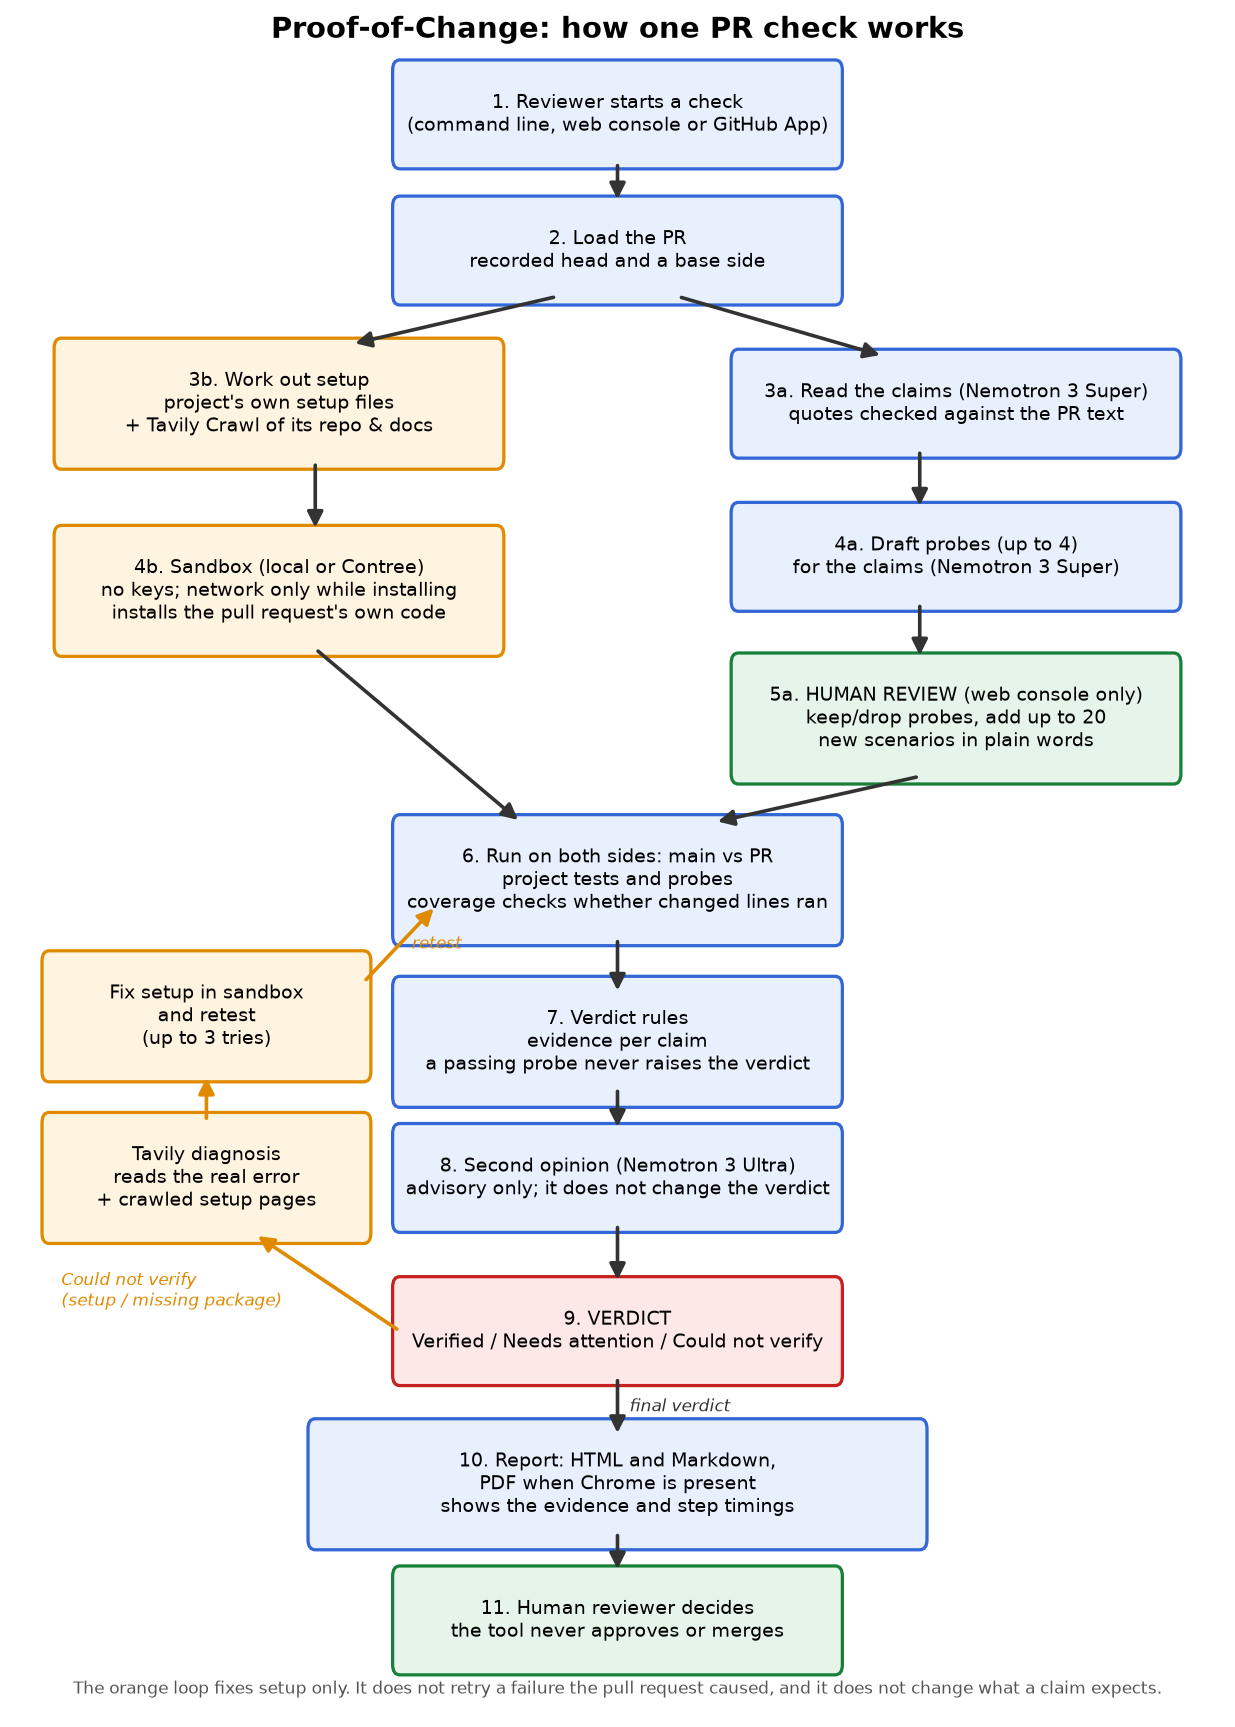
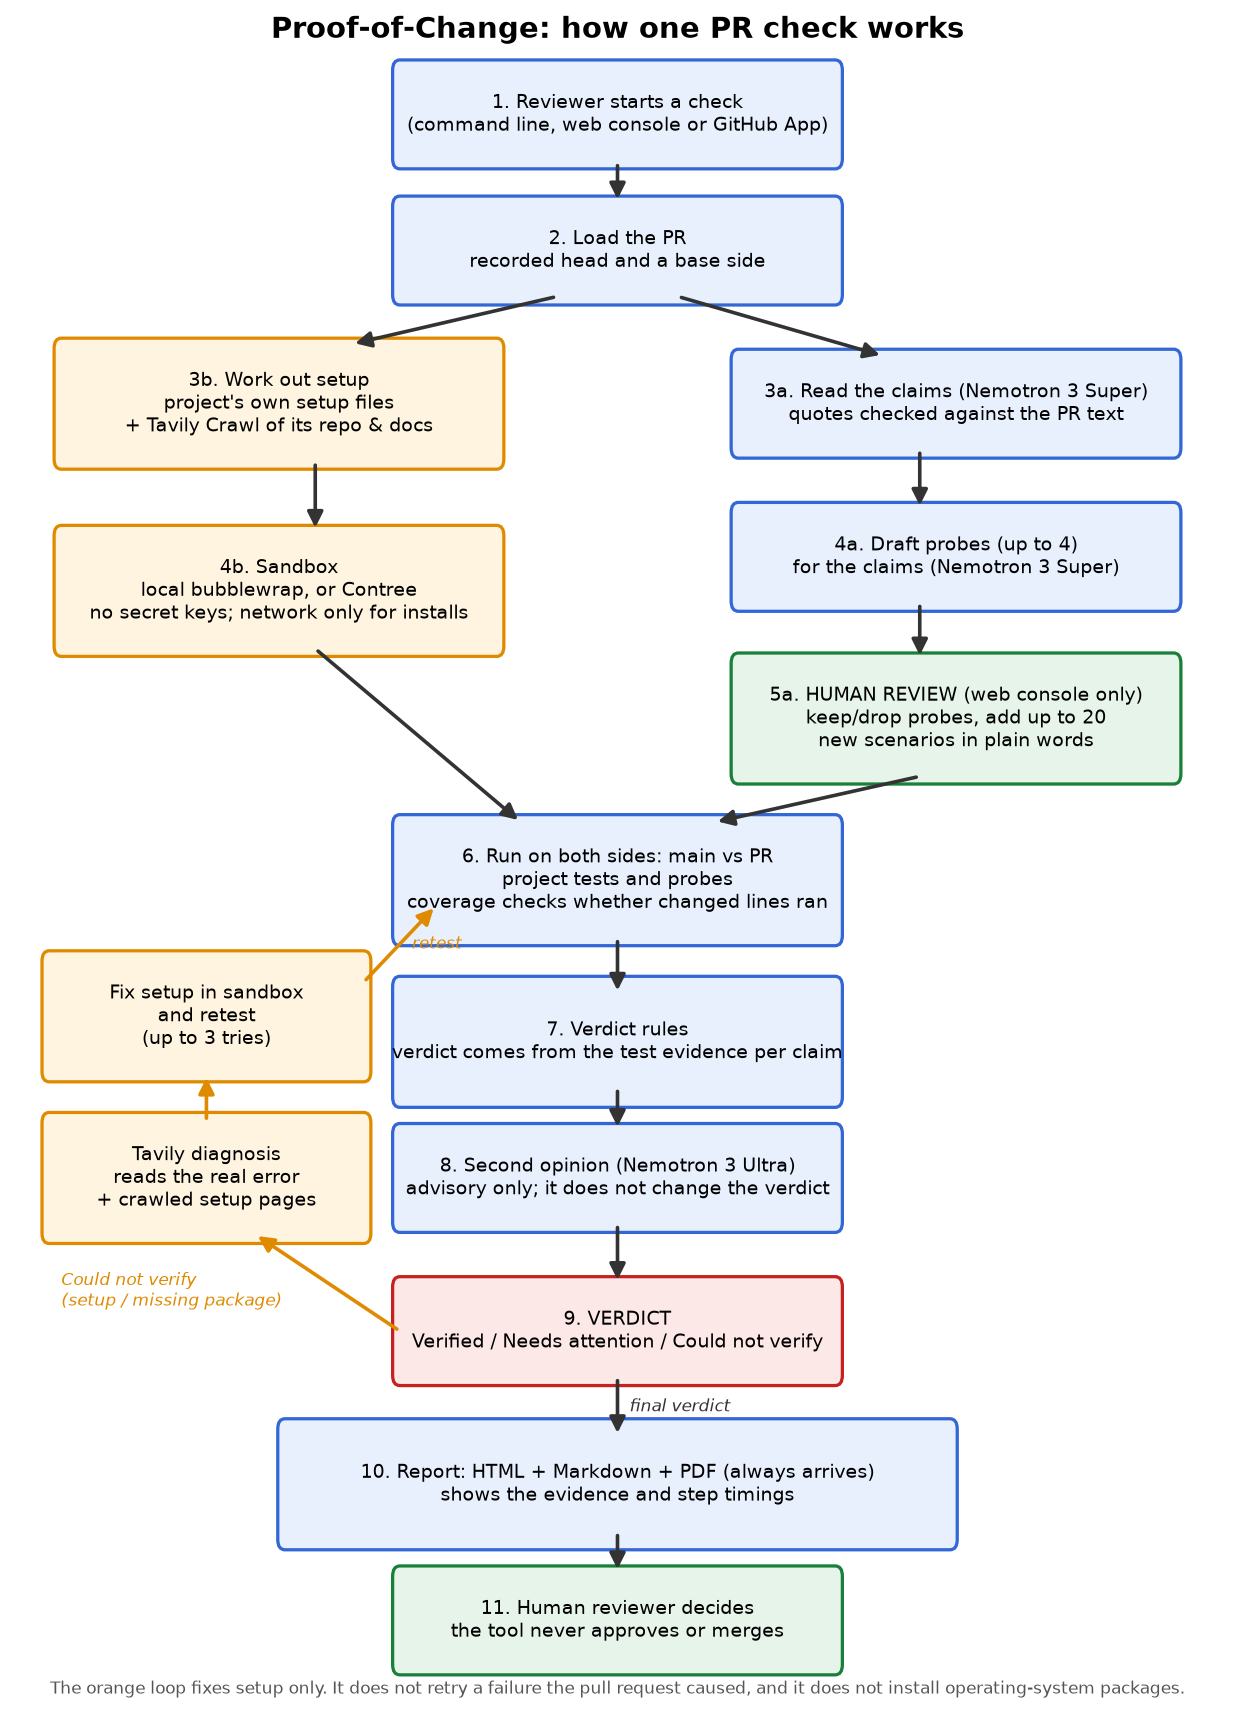
docs: match the check diagram to the sandbox, PDF, and repair rules
A setup repair is described as a rerun under the usual verdict rules. The diagram no longer says the GitHub App runs only in Contree, and the report note says the PDF is written by Chrome or the built-in maker.

diff --git a/poc/demo_helper.py b/poc/demo_helper.py
@@ -31,7 +31,7 @@ TAVILY_TIMEOUT = 8
 PYPI_TIMEOUT = 8
 MAX_SUGGESTIONS = 8
 # Probe line coverage is measured again after a setup rerun only when the change is this small.
-# A larger change skips that measurement, and the rerun cannot raise could_not_verify to verified.
+# A larger change skips that measurement, and the verdict stays could_not_verify.
 SMALL_CHANGED_LINES = 200
 SIDES = ("main", "pr")
 TEST_EXTRAS = ("test", "tests", "testing")
@@ -2850,10 +2850,9 @@ def retry_unverified_study(rec: dict, rerun, install_one, declared, tavily_text:
     """Study and daily-study path, unchanged from before the product check flow.
 
     One rerun when a could-not-verify result is a setup gap. Tavily text alone never changes the verdict.
-
-    This is the only step that can raise could_not_verify to verified. When the record has probes, that raise
-    waits for a fresh probe line-coverage measurement. The measurement runs only when the change is small.
-    A larger change skips it, and the verdict stays could_not_verify.
+    A repair only lets the check run; the verdict comes from the same rules as any other run.
+    When the record has probes, a fresh probe line-coverage measurement runs only when the change is small.
+    A larger change skips that measurement, and the verdict stays could_not_verify.
 
     ``allow_system`` and ``install_system`` are unused. They stay so older callers still pass, and this step
     does not install an OS package.
@@ -2961,10 +2960,12 @@ def retry_unverified(rec: dict, rerun, install_one, declared, tavily_text: str, 
                      product_repair: bool = False) -> dict:
     """Up to ``max_tries`` reruns when a could-not-verify result is a setup or import gap.
 
-    Each try: look the error up (Tavily, when a lookup is given), install the fix on main and pr, rerun the step.
-    Every try is logged in ``gap_retry.tries``. A needs-attention result (a PR-caused test failure) is never retried.
-    Tavily text alone never changes the verdict. This is the only step that can raise could_not_verify to
-    verified, and that raise still waits for a fresh probe line-coverage measurement when the record has probes.
+    Each try looks up the real error (Tavily, when a lookup is given), installs the same fix on main and pr,
+    and runs the check again. Every try is logged in ``gap_retry.tries``. A repair only lets the check run;
+    the verdict comes from the same rules as any other run. A needs-attention result (a failure the pull
+    request caused) is never retried. Tavily text alone never changes the verdict. When the record has probes,
+    a fresh probe line-coverage measurement runs only when the change is small. A larger change skips that
+    measurement, and the verdict stays could_not_verify.
 
     ``allow_system`` and ``install_system`` are unused. A missing system library, header or build tool is a
     could-not-verify limitation. This step does not install an OS package on any sandbox.

diff --git a/docs/architecture.py b/docs/architecture.py
@@ -47,7 +47,7 @@ panel(
 )
 panel(
     0.22, 0.66,
-    "4b. Sandbox (local or Contree)\nno keys; network only while installing\ninstalls the pull request's own code",
+    "4b. Sandbox\nlocal bubblewrap, or Contree\nno secret keys; network only for installs",
     c=NEW, e=NE, h=0.065,
 )
 panel(
@@ -57,7 +57,7 @@ panel(
 )
 panel(
     0.5, 0.395,
-    "7. Verdict rules\nevidence per claim\na passing probe never raises the verdict",
+    "7. Verdict rules\nverdict comes from the test evidence per claim",
     h=0.065,
 )
 panel(0.5, 0.315, "8. Second opinion (Nemotron 3 Ultra)\nadvisory only; it does not change the verdict")
@@ -66,8 +66,8 @@ panel(0.16, 0.315, "Tavily diagnosis\nreads the real error\n+ crawled setup page
 panel(0.16, 0.41, "Fix setup in sandbox\nand retest\n(up to 3 tries)", c=NEW, e=NE, w=0.26, h=0.065)
 panel(
     0.5, 0.135,
-    "10. Report: HTML and Markdown,\nPDF when Chrome is present\nshows the evidence and step timings",
-    w=0.5, h=0.065,
+    "10. Report: HTML + Markdown + PDF (always arrives)\nshows the evidence and step timings",
+    w=0.55, h=0.065,
 )
 panel(0.5, 0.055, "11. Human reviewer decides\nthe tool never approves or merges", c=HUM, e=HE)
 arr(0.5, 0.912, 0.5, 0.888)
@@ -90,7 +90,7 @@ arr(0.5, 0.107, 0.5, 0.083)
 ax.text(
     0.5, 0.012,
     "The orange loop fixes setup only. It does not retry a failure the pull request caused, "
-    "and it does not change what a claim expects.",
+    "and it does not install operating-system packages.",
     ha="center", fontsize=9.5, color="#555",
 )
 plt.savefig("docs/architecture.png", dpi=130, bbox_inches="tight")

diff --git a/docs/decisions/2026-10-21-pr-only-flaky-not-verified.md b/docs/decisions/2026-10-21-pr-only-flaky-not-verified.md
@@ -6,7 +6,7 @@ A test that passes on every run of the current code, and passes on some runs of 
 
 A test that is flaky on both sides is still only listed. It does not decide the verdict. The same split applies to a probe observation.
 
-The setup rerun is the only step that can raise could not verify to verified. Before it does, probe line coverage is measured again, but only when the change is small (200 changed lines or fewer). A larger change skips that measurement, and the rerun then cannot raise the verdict to verified.
+A setup repair only lets the check run again. The verdict comes from the same rules as any other run. Probe line coverage is measured again only when the change is small (200 changed lines or fewer). A larger change skips that measurement, and the verdict stays could not verify.
 
 A web search can suggest package names. Those names are installed only when the package's page on the Python package index links back to the same repository. The package author writes that link. It stops an accident. It does not stop someone who is trying to get a bad package installed.
 
@@ -22,7 +22,7 @@ Ignoring a failure that shows up only on the pull request treats a possible brea
 
 - Count a result that is stable on the base and unstable only on the pull request as a possible regression. Needs attention when it can be called. Could not verify when it is too mixed to call. Never verified.
 - Keep today's handling when a result is flaky on both sides.
-- Recompute probe line coverage after a setup rerun, and only then allow could not verify to become verified. Skip that measurement when the change is larger than 200 lines, and do not raise the verdict in that case.
+- Recompute probe line coverage after a setup rerun, and only for a change of 200 lines or fewer. Skip that measurement when the change is larger, and leave the verdict could not verify in that case.
 - Say plainly that a suggested package is installed only when its package-index page links back to the same repository, and that this stops accidents, not a determined attacker.
 - Label a probe result that is stable on the base and too mixed to call on the pull request as unstable on the pull request, not as flaky.
 - Treat a measurement with no changed lines as not adequate, so a setup rerun cannot become verified from it.

diff --git a/README.md b/README.md
@@ -21,13 +21,21 @@ A person starts a check from the command line, the web console, or the GitHub Ap
 writes its own PR comment and check result. The check loads the recorded head commit and a base side, reads claims
 that must quote the pull request text, and drafts probes; on the web console a person can keep or drop those probes
 and add up to 20 test ideas in plain words. It reads the project's own setup files and a crawl of the repository and
-its docs, then installs the code in a sandbox that gets no secret keys and has a network only while packages are
-installed. Tests and probes run on main and on the pull request, coverage checks whether the changed lines ran, and
-plain rules set one of three verdicts; a passing probe never raises the verdict, and the second opinion does not
-change it. A setup failure can be diagnosed from the real error and the crawled pages, then fixed and run again, up
-to 3 times, without retrying a failure the pull request caused or changing what a claim expects. The report is HTML
-and Markdown, plus a PDF when Chrome is present, and it shows the evidence and how long each step took; a person
-decides, and the tool never approves or merges.
+its docs, then runs the code in a sandbox: local bubblewrap, or Contree. The sandbox gets no secret keys, and the
+network is on only for installs. Tests and probes run on main and on the pull request, and coverage checks whether
+the changed lines ran. The verdict comes from the test evidence for each claim, and the second opinion does not
+change it.
+
+When setup or an import fails, the checker can look up the real error, install the same fix on both sides and run
+the check again, up to 3 logged tries. A repair only lets the check run; the verdict comes from the same rules as
+any other run. It never retries a failure the PR caused and never installs OS packages.
+
+The report is HTML and Markdown, and it shows the evidence and how long each step took. The PDF always arrives:
+Chrome makes it when it works, and otherwise the built-in reportlab maker does. A person decides, and the tool
+never approves or merges.
+
+Each check logs the Tavily credits it uses. When `POC_TAVILY_CREDIT_CAP` is set, a check that might go over stops
+before its first Tavily call and reports could not verify.
 
 ## Current limitations
 

diff --git a/docs/decisions/2026-10-27-setup-repair-does-not-set-verdict.md b/docs/decisions/2026-10-27-setup-repair-does-not-set-verdict.md
@@ -1,0 +1,30 @@
+# A setup repair does not set the verdict
+
+## What changed
+
+The notes on the setup-repair functions now say what a repair does. It looks up a setup or import failure,
+installs the same fix on both sides, and runs the check again, up to 3 logged tries. The verdict after that
+run comes from the same rules as any other run. A failure the pull request caused is not retried, and the
+repair does not install operating-system packages.
+
+## Why
+
+The old note said this step could move a could-not-verify result to verified. That described the repair as
+choosing the verdict. The repair only makes it possible to run the check. The tests and the usual rules
+decide the result.
+
+## Decision
+
+Leave the repair behavior as it is. Change the description so it matches that behavior. A fresh probe
+line-coverage measurement still runs only when the change is small. A larger change skips it, and the
+verdict stays could not verify.
+
+## Alternatives and tradeoffs
+
+The old note could have stayed. Readers would still be told that the repair itself moves the verdict.
+Rewriting the note does not change who can be verified, or how many tries a repair gets.
+
+## What it means for you
+
+A setup or import failure can still be looked up and installed on both sides, then run again. The report
+shows the same verdict names as a check that did not need a repair. Nothing new has to be configured.

diff --git a/docs/Proof-of-Change-Documentation.md b/docs/Proof-of-Change-Documentation.md
@@ -96,7 +96,7 @@ Related bug reports are background. The report labels them as not used for the v
 | Verdicts do not merge or block | Live | `poc/verdict.py:3`, `poc/verdict.py:37` |
 | Coverage gate and AI-probe gate only lower verified | Live | `poc/coverage_gate.py:5`, `ops/daily_run.py:2351` |
 | A partial or malformed coverage report stays not measured | Live | `poc/coverage_gate.py:120` |
-| Setup recovery can raise could not verify only after a small-change remeasure | Live | `poc/demo_helper.py:1388` |
+| A setup repair is judged by the same rules as any other run; a large change that skips the fresh probe measurement stays could not verify | Live | `poc/demo_helper.py:2957` |
 | Swarm does not change the verdict | Live | `poc/agents.py:108` |
 | No key in the untrusted environment | Live | `guardrails/isolation.py:61` |
 | User checks ignore the server key | Live | `poc/console_api.py:57`, `poc/console_api.py:79` |

diff --git a/docs/OPERATIONS.md b/docs/OPERATIONS.md
@@ -112,7 +112,7 @@ Verdict, in order:
 Then the coverage gate. The reason says how many tests ran on each side, how many were unchanged (and how many of
 those were skipped on both sides), flaky tests, and every module that failed to load.
 
-Limitation: after a setup rerun, probe line coverage is measured again only when the change is 200 lines or fewer. A larger change skips that measurement, and the rerun cannot raise the verdict to verified.
+Limitation: after a setup rerun, probe line coverage is measured again only when the change is 200 lines or fewer. A larger change skips that measurement, and the verdict stays could not verify.
 
 ## Coverage gate (`poc/coverage_gate.py`)
 
